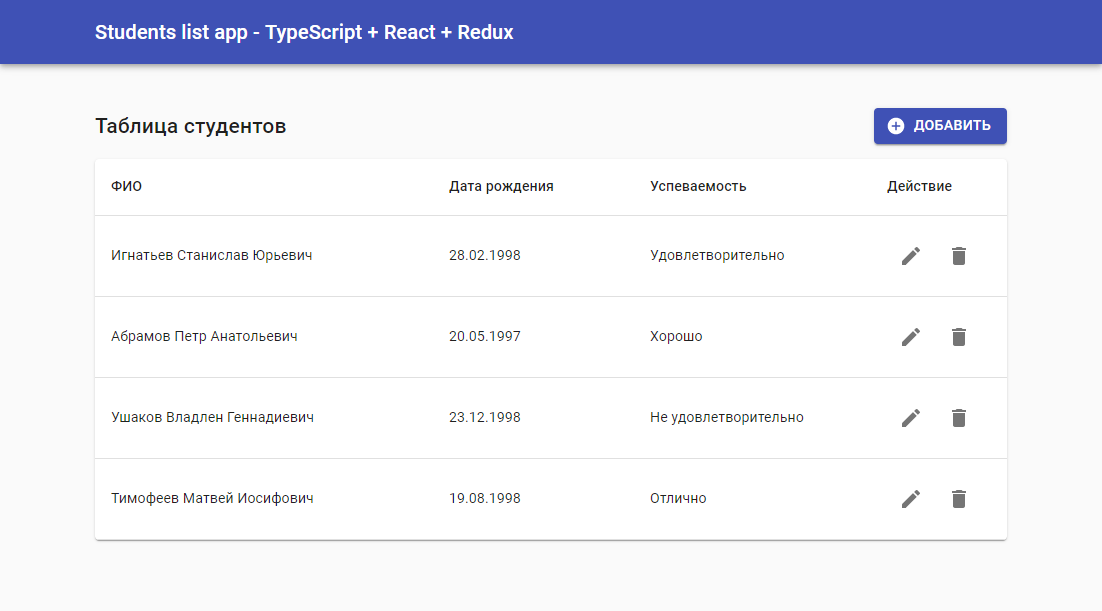
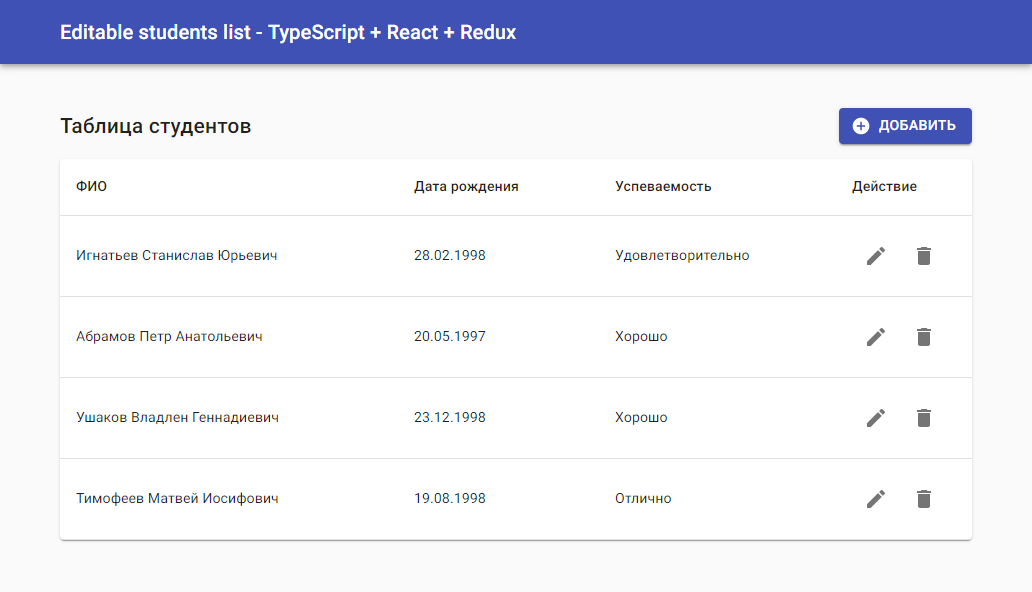
update img & App title

diff --git a/src/App.tsx b/src/App.tsx
@@ -17,7 +17,7 @@ const App: React.FC = () => {
 			<AppBar position="relative">
 				<Container maxWidth="md">
 					<Toolbar disableGutters={true}>
-						<Typography variant="h6">Students list app - TypeScript + React + Redux</Typography>
+						<Typography variant="h6">Editable students list - TypeScript + React + Redux</Typography>
 					</Toolbar>
 				</Container>
 			</AppBar>
